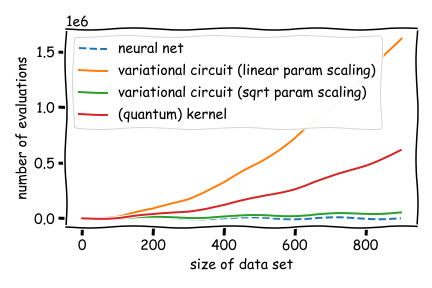
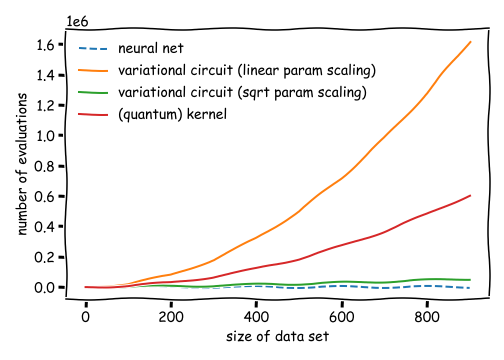
glassnotes comments implemented

diff --git a/demonstrations/tutorial_kernel_based_training.py b/demonstrations/tutorial_kernel_based_training.py
@@ -48,8 +48,14 @@ evaluations, although it will never be competitive with classical neural network
        :scale: 100%
        :alt: Scaling of kernel-based vs. variational learning
 
-Either way, kernel-based training has many great properties and is therefore a valuable addition to 
-the toolbox of quantum machine learning.
+After working through this demo, the reader should:
+
+* be able to use a support vector machine with a quantum kernel computed with PennyLane, and
+
+* understand the scaling of quantum circuit evaluations required in kernel-based versus 
+  variational training.  
+
+
 """
 
 ######################################################################
@@ -76,10 +82,10 @@ the toolbox of quantum machine learning.
 #       :alt: quantum-model
 #
 #
-# For example, applying a circuit :math:`B(\theta)` and then
+# For example, applying a circuit :math:`G(\theta)` and then
 # measuring the Pauli-Z observable :math:`\sigma^0_z` of the first qubit
 # implements the trainable measurement 
-# :math:`\mathcal{M}(\theta) = B^{\dagger}(\theta) \sigma^0_z B(\theta)`.
+# :math:`\mathcal{M}(\theta) = G^{\dagger}(\theta) \sigma^0_z G(\theta)`.
 #
 # The main practical consequence of approaching quantum machine learning with a 
 # kernel approach is that instead of training :math:`f` variationally,
@@ -93,14 +99,6 @@ the toolbox of quantum machine learning.
 # measurement of common variational circuits, and only depends on the
 # embedding.
 #
-# More precisely, we can replace variational training with kernel-based training if the optimisation
-# problem can be written as minimizing a cost of the form
-# 
-# .. math::  \min_f  \lambda \mathrm{tr}\{\mathcal{M}^2\} + \frac{1}{M}\sum_{m=1}^M L(f(x^m), y^m), 
-#
-# which is a regularised empirical risk with training data samples :math:`(x^m, y^m)_{m=1\dots M}`, 
-# regularisation strength :math:`\lambda \in \mathbb{R}`, and loss function :math:`L`.
-#
 # If the loss function in training is the `hinge
 # loss <https://en.wikipedia.org/wiki/Hinge_loss>`__, the kernel method
 # corresponds to a standard `support vector
@@ -108,10 +106,19 @@ the toolbox of quantum machine learning.
 # in the sense of a maximum-margin classifier. Other convex loss functions
 # lead to more general variations of support vector machines.
 #
-# .. warning::
+# .. note::
+#
+#    More precisely, we can replace variational with kernel-based 
+#    training if the optimisation
+#    problem can be written as minimizing a cost of the form
+# 
+#    .. math::  \min_f  \lambda \mathrm{tr}\{\mathcal{M}^2\} + \frac{1}{M}\sum_{m=1}^M L(f(x^m), y^m), 
+#
+#    which is a regularized empirical risk with training data samples :math:`(x^m, y^m)_{m=1\dots M}`, 
+#    regularisation strength :math:`\lambda \in \mathbb{R}`, and loss function :math:`L`.
 #
 #    Theory predicts that kernel-based training will always find better or equally good
-#    models for the optimisation problem stated above. However, to show this here we would have
+#    minima of this risk. However, to show this here we would have
 #    to either regularise the variational training by the trace of the squared observable, or switch off
 #    regularisation in the classical SVM, which denies it a lot of its strength. The kernel-based and the variational 
 #    training in this demonstration therefore optimize slightly different cost
@@ -124,6 +131,10 @@ the toolbox of quantum machine learning.
 # Kernel-based training
 # =====================
 #
+# First, we will turn to kernel-based training of quantum models. 
+# As stated above, an example implementation is a standard support vector 
+# machine with a kernel computed by a quantum circuit.
+# 
 
 
 ######################################################################
@@ -150,7 +161,7 @@ np.random.seed(42)
 
 
 ######################################################################
-# The second step is to make an artificial toy data set.
+# The second step is to make a toy data set.
 #
 
 X, y = load_iris(return_X_y=True)
@@ -177,13 +188,14 @@ X_train, X_test, y_train, y_test = train_test_split(X_scaled, y_scaled)
 #
 
 n_qubits = len(X_train[0])
+n_qubits
 
 
 ######################################################################
 # To implement the kernel we could prepare the two states
-# :math:`| \phi(x)\rangle`, :math:`| \phi(x')\rangle` on different qubits
+# :math:`| \phi(x)\rangle`, :math:`| \phi(x')\rangle` on different sets of qubits
 # with amplitude embedding routines :math:`S(x), S(x')` and measure their
-# overlap with a small routine called a SWAP test.
+# overlap with a small routine called a `SWAP test <https://en.wikipedia.org/wiki/Swap_test>`__.
 #
 # However, we need only half the number of qubits if we prepare
 # :math:`| \phi(x)\rangle` and then apply the inverse embedding
@@ -207,8 +219,8 @@ n_qubits = len(X_train[0])
 #    observables = [qml.PauliZ(i) for i in range(n_qubits)]
 #    projector = Tensor(*observables)
 #
-# Altogether, we use the following quantum node as a “quantum kernel
-# evaluator”:
+# Altogether, we use the following quantum node as a *quantum kernel
+# evaluator*:
 #
 
 dev_kernel = qml.device("default.qubit", wires=n_qubits)
@@ -226,8 +238,8 @@ def kernel(x1, x2):
 
 
 ######################################################################
-# A good sanity check is whether measuring the distance between one and
-# the same data point returns 1:
+# A good sanity check is whether evaluating the kernel of a data point and 
+# itself returns 1:
 #
 
 kernel(X_train[0], X_train[0])
@@ -236,7 +248,8 @@ kernel(X_train[0], X_train[0])
 ######################################################################
 # The way an SVM with a custom kernel is implemented in scikit-learn
 # requires us to pass a function that computes a matrix of kernel
-# evaluations for samples in two different datasets A, B.
+# evaluations for samples in two different datasets A, B. If A=B, 
+# this is the `Gram matrix <https://en.wikipedia.org/wiki/Gramian_matrix>`__.
 #
 
 
@@ -244,7 +257,6 @@ def kernel_matrix(A, B):
     """
     Compute the matrix whose entries are the kernel
     evaluated on pairwise data from sets A and B.
-    If A=B, this is the Gram matrix.
     """
     return np.array([[kernel(a, b) for b in B] for a in A])
 
@@ -265,6 +277,8 @@ accuracy_score(predictions, y_test)
 
 
 ######################################################################
+# The SVM predicted all test points correctly.
+#
 # How many times was the quantum device evaluated?
 #
 
@@ -293,7 +307,7 @@ def circuit_evals_kernel(n_data, split):
     Compute how many circuit evaluations one needs for kernel-based training and prediction.
     """
 
-    M = int(np.ceil(0.75 * n_data))
+    M = int(np.ceil(split * n_data))
     Mpred = n_data - M
 
     n_training = M * M
@@ -315,11 +329,11 @@ circuit_evals_kernel(n_data=len(X), split=len(X_train) / len(X_test))
 # Using the variational principle of training, we can propose an *ansatz*
 # for the (circuit before the) measurement and train it directly. By
 # increasing the number of layers of the ansatz, its expressivity
-# increases. Depending on the ansatz, we can express any measurement, or
-# only search through a subspace of all measurements for the best
+# increases. Depending on the ansatz, we may only
+# search through a subspace of all measurements for the best
 # candidate.
 #
-# Remember from above, the variational training does not optimise
+# Remember from above, the variational training does not optimize
 # *exactly* the same cost as the SVM, but we try to match them as closely
 # as possible. For this we use a bias term in the quantum model, and train
 # on the hinge loss.
@@ -448,6 +462,11 @@ plt.show()
 
 
 ######################################################################
+# The variational circuit has a slightly lower 
+# accuracy than the SVM - but this depends very much on the training settings 
+# we used. Different random parameter initialisations may indeed get 
+# perfect test accuracy.
+#
 # How often was the device executed?
 #
 
@@ -457,7 +476,7 @@ dev_var.num_executions
 ######################################################################
 # That is a lot more than the kernel method took!
 #
-# Let’s try to understand this value. In each optimisation step, the variational
+# Let’s try to understand this value. In each optimization step, the variational
 # circuit needs to compute the partial derivative of all
 # trainable parameters for each sample in a batch. Using `parameter-shift
 # rules <https://pennylane.ai/qml/glossary/parameter_shift.html>`__ we require roughly 2 circuit
@@ -468,7 +487,7 @@ dev_var.num_executions
 #
 
 
-def circuit_evals_variational(n_data, n_params, n_steps, evals_per_derivative, split, batch_size):
+def circuit_evals_variational(n_data, n_params, n_steps, shift_terms, split, batch_size):
     """
     Compute how many circuit evaluations are needed for variational training and prediction.
     """
@@ -476,7 +495,7 @@ def circuit_evals_variational(n_data, n_params, n_steps, evals_per_derivative, s
     M = int(np.ceil(split * n_data))
     Mpred = n_data - M
 
-    n_training = n_params * n_steps * batch_size * evals_per_derivative
+    n_training = n_params * n_steps * batch_size * shift_terms
     n_prediction = Mpred
 
     return n_training + n_prediction
@@ -486,7 +505,7 @@ circuit_evals_variational(
     n_data=len(X),
     n_params=len(trained_params.flatten()),
     n_steps=steps,
-    evals_per_derivative=2,
+    shift_terms=2,
     split=len(X_train) / len(X_test),
     batch_size=batch_size,
 )
@@ -518,12 +537,12 @@ def model_evals_nn(n_data, n_params, n_steps, split, batch_size):
 # In each step of neural network training, due to the power of automatic differentiation, 
 # the backpropagation algorithm can compute a 
 # gradient for all parameters in (more-or-less) a single run. 
-# For all we know at this stage, the no-cloning principle prevents variational circuits to use these tricks, 
-# which leads to ``n_training`` in ``circuit_evals_variational`` depend on the number of parameters, but not in 
+# For all we know at this stage, the no-cloning principle prevents variational circuits from using these tricks, 
+# which leads to ``n_training`` in ``circuit_evals_variational`` depending on the number of parameters, but not in 
 # ``model_evals_nn``. 
 #
 # For the same example as used here, a neural network would therefore 
-# have much fewer model evaluations than both variational and kernel-based training:
+# have far fewer model evaluations than both variational and kernel-based training:
 #
 
 model_evals_nn(
@@ -553,9 +572,9 @@ model_evals_nn(
 #    samples. But we do not know yet whether variational circuits really need that many parameters as well.
 #    We will therefore use two cases for comparison: 
 #
-#    a) the number of parameters grows linearly with the training data, or ``n_params = M``, 
+#    2a) the number of parameters grows linearly with the training data, or ``n_params = M``, 
 #
-#    b) the number of parameters grows as the square root with the training data, or ``n_params = np.sqrt(M)``. 
+#    2b) the number of parameters grows as the square root with the training data, or ``n_params = np.sqrt(M)``. 
 #
 # Note that compared to the example above with 75 training samples and 24 parameters, a) overestimates the number of evaluations, while b) 
 # underestimates it.
@@ -571,15 +590,16 @@ variational_training2 = []
 kernelbased_training = []
 nn_training = []
 x_axis = range(0, 2000, 100)
+
 for M in x_axis:
 
     var1 = circuit_evals_variational(
-        n_data=M, n_params=M, n_steps=M,  evals_per_derivative=2, split=0.75, batch_size=1
+        n_data=M, n_params=M, n_steps=M,  shift_terms=2, split=0.75, batch_size=1
     )
     variational_training1.append(var1)
 
     var2 = circuit_evals_variational(
-        n_data=M, n_params=round(np.sqrt(M)), n_steps=M,  evals_per_derivative=2, split=0.75, batch_size=1
+        n_data=M, n_params=round(np.sqrt(M)), n_steps=M,  shift_terms=2, split=0.75, batch_size=1
     )
     variational_training2.append(var2)
     
@@ -605,14 +625,15 @@ plt.show()
 
 
 ######################################################################
-# Under the assumptions made, the relation between kernel-based 
-# and variational quantum machine learning depends on how many parameters the latter need: 
+# This is the plot we saw at the beginning. Under the assumptions made, 
+# one can see that the relation between kernel-based 
+# and variational quantum machine learning depends on how many parameters the latter needs: 
 # If variational circuits turn out to be as parameter-hungry as neural networks,
 # kernel-based training will consistently outperform it. 
-# However, if we find ways to train variational circuits with few parameters,
+# However, if we find ways to train variational circuits with fewer parameters,
 # they can use this as a means to catch up with the good scaling neural networks draw from backpropagation.   
 #
-# What we learn from this demo is that unless your variational circuit has much fewer 
+# What we learn from this demo is that unless your variational circuit has many fewer 
 # parameters than training data, kernel methods could be a much faster alternative!
 #
 # Finally, it is important to note that fault-tolerant quantum computers may change the picture significantly. 
